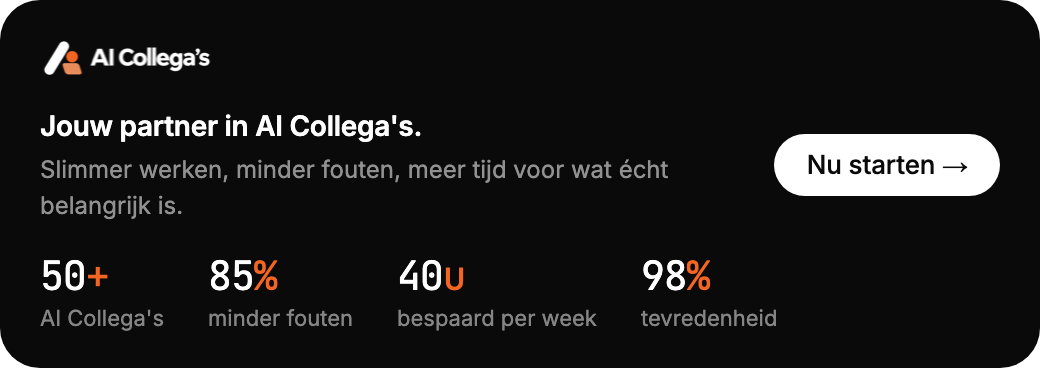
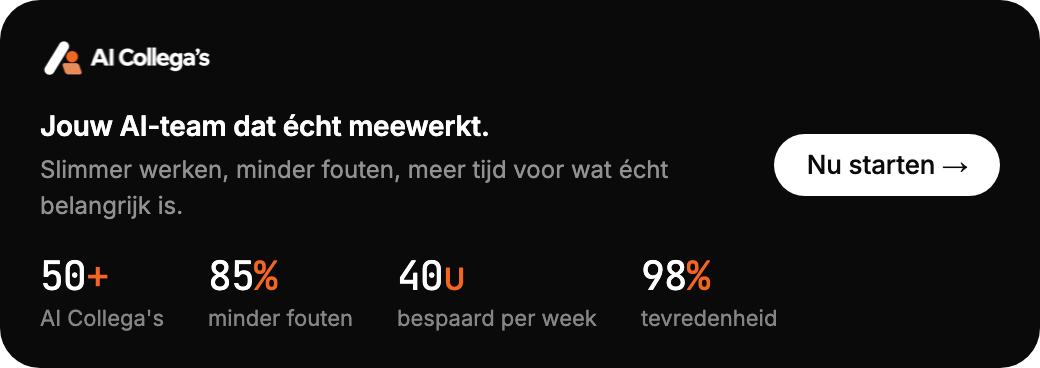
feat: nieuwe slogan op de kaart: Jouw AI-team dat écht meewerkt

Changed region(s): [[0.0923, 0.2989, 0.4615, 0.3886]]

diff --git a/v2/jacco.html b/v2/jacco.html
@@ -68,7 +68,7 @@
         <tr>
           <td style="padding:16px 0 0 0;line-height:0;">
             <a href="https://aicollegas.nl/contact" target="_blank" rel="noopener" style="text-decoration:none;display:block;line-height:0;">
-              <img src="https://raw.githubusercontent.com/AI-Collega-s/email-signature/main/v2/assets/plate.png" width="520" height="184" alt="AI Collega's. Jouw partner in AI Collega's: slimmer werken, minder fouten, meer tijd voor wat écht belangrijk is. 50+ AI Collega's, 85% minder fouten, 40u bespaard per week, 98% tevredenheid. Nu starten op aicollegas.nl/contact" style="display:block;border:0;width:520px;max-width:100%;height:auto;">
+              <img src="https://raw.githubusercontent.com/AI-Collega-s/email-signature/main/v2/assets/plate.png" width="520" height="184" alt="AI Collega's. Jouw AI‑team dat écht meewerkt. Slimmer werken, minder fouten, meer tijd voor wat écht belangrijk is. 50+ AI Collega's, 85% minder fouten, 40u bespaard per week, 98% tevredenheid. Nu starten op aicollegas.nl/contact" style="display:block;border:0;width:520px;max-width:100%;height:auto;">
             </a>
           </td>
         </tr>

diff --git a/v2/jasper.html b/v2/jasper.html
@@ -68,7 +68,7 @@
         <tr>
           <td style="padding:16px 0 0 0;line-height:0;">
             <a href="https://aicollegas.nl/contact" target="_blank" rel="noopener" style="text-decoration:none;display:block;line-height:0;">
-              <img src="https://raw.githubusercontent.com/AI-Collega-s/email-signature/main/v2/assets/plate.png" width="520" height="184" alt="AI Collega's. Jouw partner in AI Collega's: slimmer werken, minder fouten, meer tijd voor wat écht belangrijk is. 50+ AI Collega's, 85% minder fouten, 40u bespaard per week, 98% tevredenheid. Nu starten op aicollegas.nl/contact" style="display:block;border:0;width:520px;max-width:100%;height:auto;">
+              <img src="https://raw.githubusercontent.com/AI-Collega-s/email-signature/main/v2/assets/plate.png" width="520" height="184" alt="AI Collega's. Jouw AI‑team dat écht meewerkt. Slimmer werken, minder fouten, meer tijd voor wat écht belangrijk is. 50+ AI Collega's, 85% minder fouten, 40u bespaard per week, 98% tevredenheid. Nu starten op aicollegas.nl/contact" style="display:block;border:0;width:520px;max-width:100%;height:auto;">
             </a>
           </td>
         </tr>

diff --git a/v2/lars.html b/v2/lars.html
@@ -68,7 +68,7 @@
         <tr>
           <td style="padding:16px 0 0 0;line-height:0;">
             <a href="https://aicollegas.nl/contact" target="_blank" rel="noopener" style="text-decoration:none;display:block;line-height:0;">
-              <img src="https://raw.githubusercontent.com/AI-Collega-s/email-signature/main/v2/assets/plate.png" width="520" height="184" alt="AI Collega's. Jouw partner in AI Collega's: slimmer werken, minder fouten, meer tijd voor wat écht belangrijk is. 50+ AI Collega's, 85% minder fouten, 40u bespaard per week, 98% tevredenheid. Nu starten op aicollegas.nl/contact" style="display:block;border:0;width:520px;max-width:100%;height:auto;">
+              <img src="https://raw.githubusercontent.com/AI-Collega-s/email-signature/main/v2/assets/plate.png" width="520" height="184" alt="AI Collega's. Jouw AI‑team dat écht meewerkt. Slimmer werken, minder fouten, meer tijd voor wat écht belangrijk is. 50+ AI Collega's, 85% minder fouten, 40u bespaard per week, 98% tevredenheid. Nu starten op aicollegas.nl/contact" style="display:block;border:0;width:520px;max-width:100%;height:auto;">
             </a>
           </td>
         </tr>

diff --git a/v2/maarten.html b/v2/maarten.html
@@ -68,7 +68,7 @@
         <tr>
           <td style="padding:16px 0 0 0;line-height:0;">
             <a href="https://aicollegas.nl/contact" target="_blank" rel="noopener" style="text-decoration:none;display:block;line-height:0;">
-              <img src="https://raw.githubusercontent.com/AI-Collega-s/email-signature/main/v2/assets/plate.png" width="520" height="184" alt="AI Collega's. Jouw partner in AI Collega's: slimmer werken, minder fouten, meer tijd voor wat écht belangrijk is. 50+ AI Collega's, 85% minder fouten, 40u bespaard per week, 98% tevredenheid. Nu starten op aicollegas.nl/contact" style="display:block;border:0;width:520px;max-width:100%;height:auto;">
+              <img src="https://raw.githubusercontent.com/AI-Collega-s/email-signature/main/v2/assets/plate.png" width="520" height="184" alt="AI Collega's. Jouw AI‑team dat écht meewerkt. Slimmer werken, minder fouten, meer tijd voor wat écht belangrijk is. 50+ AI Collega's, 85% minder fouten, 40u bespaard per week, 98% tevredenheid. Nu starten op aicollegas.nl/contact" style="display:block;border:0;width:520px;max-width:100%;height:auto;">
             </a>
           </td>
         </tr>

diff --git a/v2/max.html b/v2/max.html
@@ -58,7 +58,7 @@
         <tr>
           <td style="padding:16px 0 0 0;line-height:0;">
             <a href="https://aicollegas.nl/contact" target="_blank" rel="noopener" style="text-decoration:none;display:block;line-height:0;">
-              <img src="https://raw.githubusercontent.com/AI-Collega-s/email-signature/main/v2/assets/plate.png" width="520" height="184" alt="AI Collega's. Jouw partner in AI Collega's: slimmer werken, minder fouten, meer tijd voor wat écht belangrijk is. 50+ AI Collega's, 85% minder fouten, 40u bespaard per week, 98% tevredenheid. Nu starten op aicollegas.nl/contact" style="display:block;border:0;width:520px;max-width:100%;height:auto;">
+              <img src="https://raw.githubusercontent.com/AI-Collega-s/email-signature/main/v2/assets/plate.png" width="520" height="184" alt="AI Collega's. Jouw AI‑team dat écht meewerkt. Slimmer werken, minder fouten, meer tijd voor wat écht belangrijk is. 50+ AI Collega's, 85% minder fouten, 40u bespaard per week, 98% tevredenheid. Nu starten op aicollegas.nl/contact" style="display:block;border:0;width:520px;max-width:100%;height:auto;">
             </a>
           </td>
         </tr>

diff --git a/v2/niels.html b/v2/niels.html
@@ -68,7 +68,7 @@
         <tr>
           <td style="padding:16px 0 0 0;line-height:0;">
             <a href="https://aicollegas.nl/contact" target="_blank" rel="noopener" style="text-decoration:none;display:block;line-height:0;">
-              <img src="https://raw.githubusercontent.com/AI-Collega-s/email-signature/main/v2/assets/plate.png" width="520" height="184" alt="AI Collega's. Jouw partner in AI Collega's: slimmer werken, minder fouten, meer tijd voor wat écht belangrijk is. 50+ AI Collega's, 85% minder fouten, 40u bespaard per week, 98% tevredenheid. Nu starten op aicollegas.nl/contact" style="display:block;border:0;width:520px;max-width:100%;height:auto;">
+              <img src="https://raw.githubusercontent.com/AI-Collega-s/email-signature/main/v2/assets/plate.png" width="520" height="184" alt="AI Collega's. Jouw AI‑team dat écht meewerkt. Slimmer werken, minder fouten, meer tijd voor wat écht belangrijk is. 50+ AI Collega's, 85% minder fouten, 40u bespaard per week, 98% tevredenheid. Nu starten op aicollegas.nl/contact" style="display:block;border:0;width:520px;max-width:100%;height:auto;">
             </a>
           </td>
         </tr>

diff --git a/v2/template.html b/v2/template.html
@@ -86,7 +86,7 @@
         <tr>
           <td style="padding:16px 0 0 0;line-height:0;">
             <a href="https://aicollegas.nl/contact" target="_blank" rel="noopener" style="text-decoration:none;display:block;line-height:0;">
-              <img src="https://raw.githubusercontent.com/AI-Collega-s/email-signature/main/v2/assets/plate.png" width="520" height="184" alt="AI Collega's. Jouw partner in AI Collega's: slimmer werken, minder fouten, meer tijd voor wat écht belangrijk is. 50+ AI Collega's, 85% minder fouten, 40u bespaard per week, 98% tevredenheid. Nu starten op aicollegas.nl/contact" style="display:block;border:0;width:520px;max-width:100%;height:auto;">
+              <img src="https://raw.githubusercontent.com/AI-Collega-s/email-signature/main/v2/assets/plate.png" width="520" height="184" alt="AI Collega's. Jouw AI‑team dat écht meewerkt. Slimmer werken, minder fouten, meer tijd voor wat écht belangrijk is. 50+ AI Collega's, 85% minder fouten, 40u bespaard per week, 98% tevredenheid. Nu starten op aicollegas.nl/contact" style="display:block;border:0;width:520px;max-width:100%;height:auto;">
             </a>
           </td>
         </tr>

diff --git a/v2/assets/plate.html b/v2/assets/plate.html
@@ -16,7 +16,7 @@
             <table cellpadding="0" cellspacing="0" border="0" role="presentation" width="100%" style="border-collapse:collapse;">
               <tr>
                 <td style="vertical-align:middle;padding:14px 14px 0 0;">
-                  <div style="font-family:Inter,'Avenir Next',Avenir,Helvetica,Arial,sans-serif;font-size:14px;font-weight:600;color:#ffffff;letter-spacing:-0.01em;line-height:1.25;">Jouw partner in AI Collega's.</div>
+                  <div style="font-family:Inter,'Avenir Next',Avenir,Helvetica,Arial,sans-serif;font-size:14px;font-weight:600;color:#ffffff;letter-spacing:-0.01em;line-height:1.25;">Jouw AI‑team dat écht meewerkt.</div>
                   <div style="font-family:Inter,'Avenir Next',Avenir,Helvetica,Arial,sans-serif;font-size:12px;font-weight:400;color:#919191;line-height:1.5;margin-top:4px;">Slimmer werken, minder fouten, meer tijd voor wat écht belangrijk is.</div>
                 </td>
                 <td style="vertical-align:middle;text-align:right;white-space:nowrap;padding-top:14px;">
